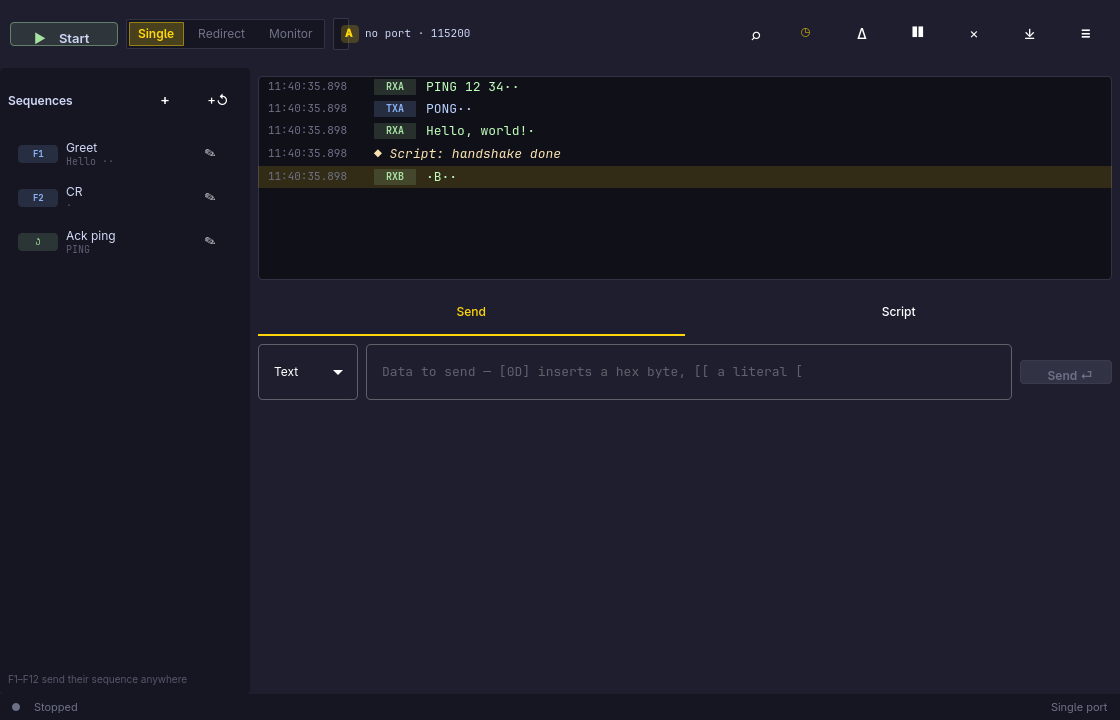
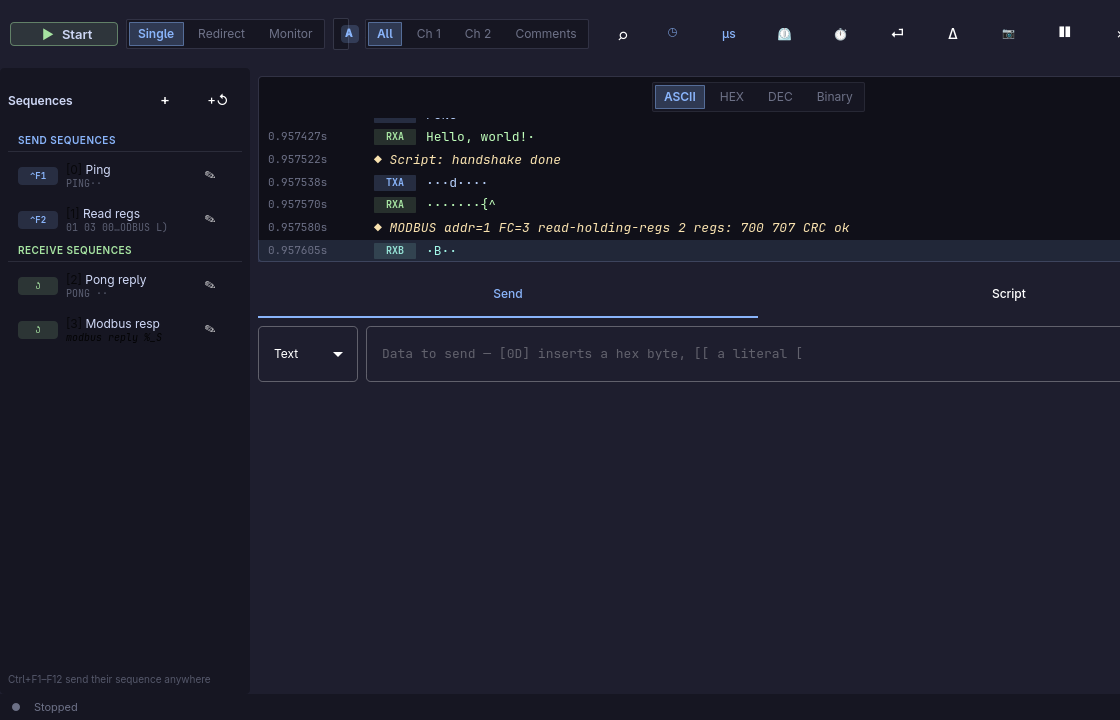
Docs refresh: new screenshot (µs stamps, grouped sequence panel, Modbus decode annotation), WaitForSequence signature corrected everywhere (maxCounter, timeout), DL.GetTimeStamp documented, 106-test counts, man page updated to 0.3.3, architecture doc covers SequenceProxy

diff --git a/tests/grab_harness.cpp b/tests/grab_harness.cpp
@@ -52,12 +52,22 @@ int main(int argc, char *argv[]) {
     // Let bindings settle, then grab.
     QTimer::singleShot(700, &app, [&] {
         // Simulation mode: paint a few representative entries so screenshots
-        // and layout checks show real traffic.
+        // and layout checks show real traffic. LUCID_US=1 turns on the µs
+        // stamp mode for the grab.
         if (!qEnvironmentVariableIsEmpty("LUCID_SIM")) {
+            if (!qEnvironmentVariableIsEmpty("LUCID_US"))
+                backend.scriptSetMicroStamps(true);
             backend.log()->append(CommLog::Rx, 0, "PING 12 34\r\n");
             backend.log()->append(CommLog::Tx, 0, "PONG\r\n");
             backend.log()->append(CommLog::Rx, 0, QByteArray::fromHex("48656C6C6F2C20776F726C642100"));
             backend.log()->appendComment("Script: handshake done");
+            // A Modbus exchange the way the live decoder renders it: request,
+            // reply, and the decode annotation attached under the reply.
+            backend.log()->append(CommLog::Tx, 0, QByteArray::fromHex("01030064000285D4"));
+            backend.log()->append(CommLog::Rx, 0, QByteArray::fromHex("01030402BC02C37B5E"));
+            backend.log()->appendComment(
+                QStringLiteral("MODBUS addr=1 FC=3 read-holding-regs 2 regs: 700 707 CRC ok"),
+                true);
             backend.log()->append(CommLog::Rx, 1, QByteArray::fromHex("0142FF00"), true);
             // Regression guard: the view must actually show the rows. A
             // broken delegate (e.g. required model properties on a nested

diff --git a/README.md b/README.md
@@ -6,7 +6,7 @@ A serial monitor, terminal, and test scripting tool for Linux — built in the
 spirit of [Docklight Scripting](https://www.docklight.de/): watch the bytes
 flow, poke the device, automate the whole conversation with a script.
 
-Current release: **0.3.3** · 105 tests · CI-green on every push.
+Current release: **0.3.3** · 106 tests · CI-green on every push.
 
 ## Features
 
@@ -38,7 +38,9 @@ Current release: **0.3.3** · 105 tests · CI-green on every push.
   seconds-only with 6 decimals (CLOCK_REALTIME, transport-independent:
   serial, TCP, UDP, UNIX all get the same precision), plus per-row delta
   columns. Log files follow the window's mode.
-- **Send / receive sequences** — named snippets in Text/Hex/Dec/Binary
+- **Send / receive sequences** — grouped in the panel under *Send* and
+  *Receive* section headers (the combined index is what scripts and hotkeys
+  use). Named snippets in Text/Hex/Dec/Binary
   notation with wildcard parameters, function characters (`&` delay, `%`
   break, `!` handshake), **checksum areas** (MOD256, XOR, LRC, LRC-ASCII,
   CRC-7/8/16/32, DOW, MODBUS, CCITT, XMODEM… or a generic
@@ -204,11 +206,12 @@ DL.StopCommunication();
 | `DL.Break()` | stop the script |
 | `DL.Fail(message)` | stop and fail the run (headless exit code 1) |
 | `DL.Assert(condition, message)` | `Fail` when the condition is false |
-| `DL.WaitForSequence(name, timeoutMs)` | wait for a named receive sequence to match |
+| `DL.WaitForSequence(nameOrIndex, maxCounter, timeoutMs)` | wait until the receive sequence's hit counter reaches `maxCounter` (default 1) or `timeoutMs` passes; returns the counter value. Without a timeout it waits forever |
 | `DL.SetMicroStamps(on)` / `DL.GetMicroStamps()` | µs-precision seconds-only stamps |
 | `DL.SetHtmlStyle(css)` / `DL.GetHtmlStyle()` | CSS of exported `.htm` logs |
 | `DL.Env(name, fallback)` | read an environment variable |
 | `DL.SaveLog(path)` | dump the communication window so far to a file |
+| `DL.GetTimeStamp()` | formatted date/time stamp (alias of `DL.GetDocklightTimeStamp`, the Docklight API name kept for script compatibility) |
 | `DL.HexToStr(h)` / `DL.StrToHex(s)` | byte↔string (1:1, Latin-1) |
 | `DL.HexToDec(h)` / `DL.DecToHex(d, digits)` | number conversions |
 | `DL.Asc(ch)` / `DL.Chr(n)` | character code helpers |
@@ -250,7 +253,7 @@ for the socat recipes.
 
 ```sh
 ./build.sh          # qmake6 + make into build/lucidlight
-./test.sh           # 105 unit and end-to-end tests (offscreen)
+./test.sh           # 106 unit and end-to-end tests (offscreen)
 ./asan.sh           # AddressSanitizer build, on demand (build/asan/)
 tests/grab_harness   # LUCID_SIM=1 LUCID_TAB=script ./grab_harness — screenshots offscreen
 ```
@@ -262,7 +265,7 @@ agent skill), `examples/` sample projects, `pkgbuild/` Arch packaging. One
 
 ## Continuous integration
 
-Every push runs the full 105-test suite on GitHub Actions (Ubuntu 24.04,
+Every push runs the full 106-test suite on GitHub Actions (Ubuntu 24.04,
 Qt 6): `.github/workflows/ci.yml` — the CI has already caught two
 portability bugs (non-standard baud constants, newer-Qt API) that Arch
 machines could not.

diff --git a/docs/skill.md b/docs/skill.md
@@ -47,7 +47,7 @@ One JSON object per line (NDJSON) on stdout:
     { "name": "Ping", "isSend": true, "format": "text", "data": "PING[0D][0A]", "hotkey": 1 },
     { "name": "Ack", "isSend": false, "format": "text", "data": "ACK", "replyToId": -1 }
   ],
-  "script": "DL.Send(\"PING\\r\"); if (!DL.WaitForSequence(\"Ack\", 1000)) DL.Fail(\"no ack\");",
+  "script": "DL.Send(\"PING\\r\"); if (!DL.WaitForSequence(\"Ack\", 1, 1000)) DL.Fail(\"no ack\");",
   "display": { "format": "text", "timestamps": true, "delta": false }
 }
 ```
@@ -79,13 +79,17 @@ DL.Receive(16, 500);                  // next 16 bytes as string, or false
 DL.ReceiveLine(1000);                 // next line (up to CR/LF, terminator consumed)
 DL.ReceiveStr("OK", 1000);            // true when the text appears (consumes stream)
 DL.ReceiveHex("AA ?? 55", 1000);      // matched bytes as hex, or false
-DL.WaitForSequence("Ack", 1000);      // true when the named receive sequence matches
+DL.WaitForSequence("Ack", 1, 1000);   // wait for hit 1 of the receive
+                                      // sequence, max 1000 ms (returns the
+                                      // hit counter; no timeout = wait forever)
 DL.Dispatch("helper.js");             // run another script in parallel
                                       // (own thread, shared comm; max 8)
 DL.SetModbusDecode(true);             // annotate valid Modbus RTU frames
                                       // inline in the log (FC, addr, regs)
 DL.Wait(250); DL.Pause();
 DL.Comment("note"); DL.ClearComm(); DL.ShowMessage("hello");
+DL.GetTimeStamp();                    // date/time stamp (Docklight's
+                                      // GetDocklightTimeStamp also works)
 DL.HexToStr(h); DL.StrToHex(s); DL.HexToDec(h); DL.DecToHex(n); DL.Asc(c); DL.Chr(n);
 DL.SendBreak(200); DL.SetDTR(true); DL.SetRTS(false);
 DL.GetCTS(); DL.GetDSR(); DL.GetDCD(); DL.GetRI();

diff --git a/docs/architecture.md b/docs/architecture.md
@@ -84,6 +84,9 @@ depends on the ones above it.
 
 - **`SequenceModel`**: send/receive sequences with wildcard parameters,
   hotkeys, repeat, reply-to chains, checksum specs, trigger actions.
+  **`SequenceProxy`** is the panel's grouped view (sends first, receives
+  second) — a plain mapping model with a queued rebuild; the source order
+  stays the scripting index.
 - **`SequenceMatcher`**: streaming receive-pattern matcher per channel
   (`?` any byte, `#` digit runs, function characters), fires triggers
   (comment, checksum validation, snapshot, stop-run) and answers send
